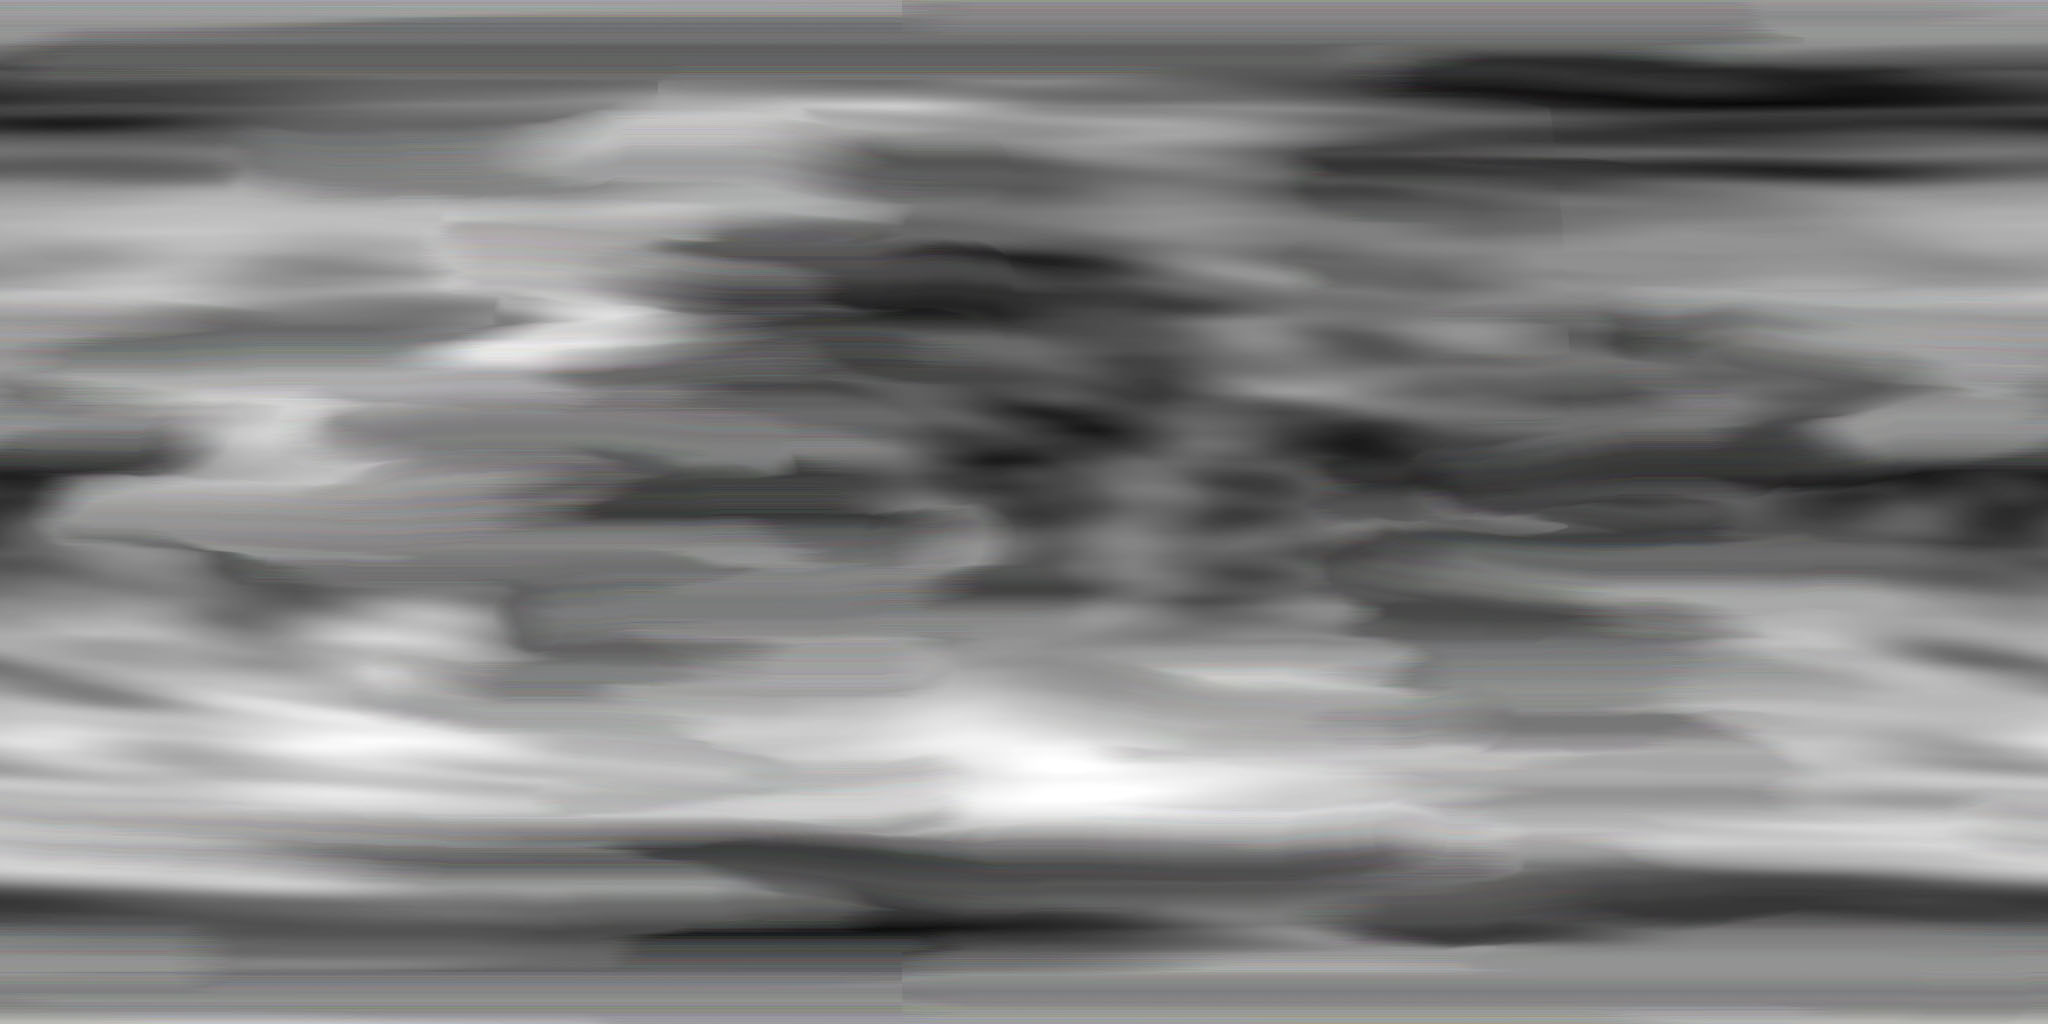
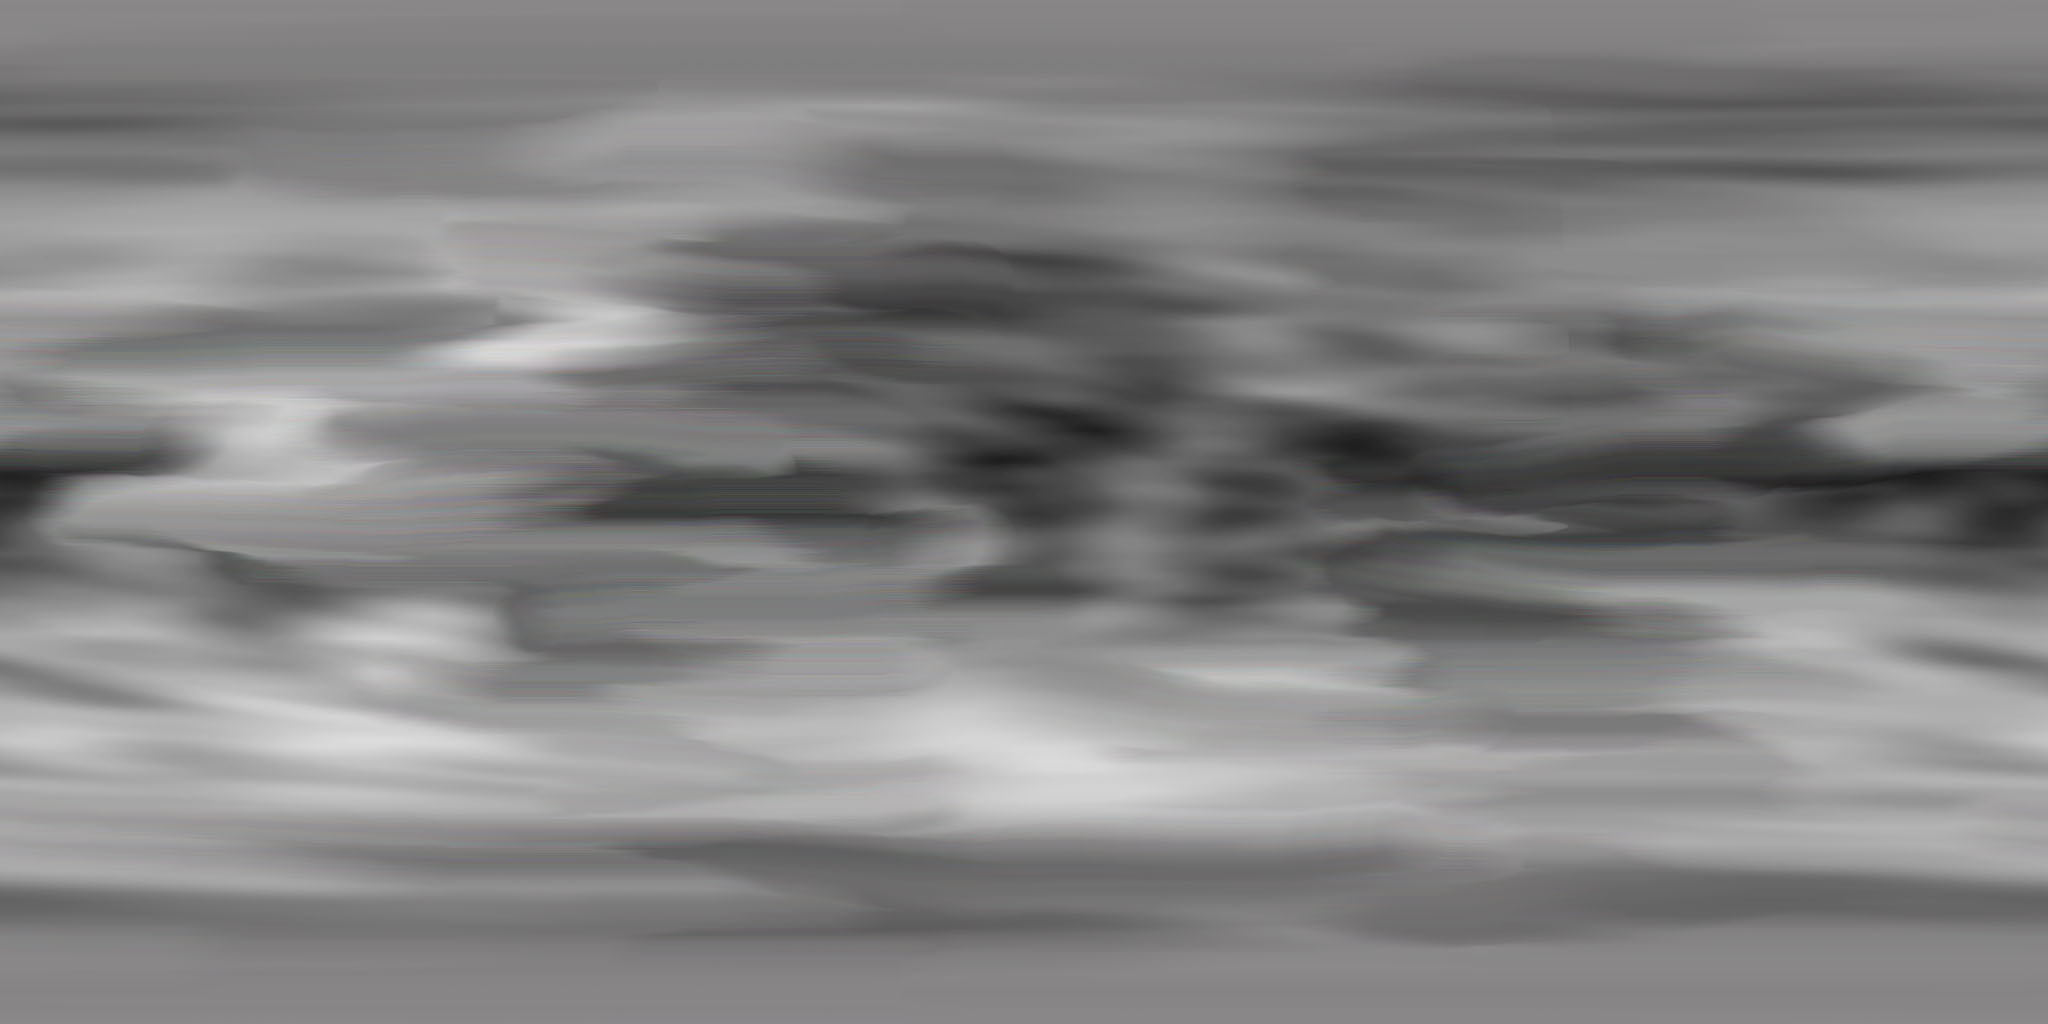
Trying to add clouds

diff --git a/Flipflyv2/index.html b/Flipflyv2/index.html
@@ -133,7 +133,7 @@
             scene.add( mesh );
 
             var geometry = new THREE.SphereBufferGeometry( 500, 64, 32 );
-            geometry.scale( - 0.4, 0.4, 0.4 );
+            geometry.scale( - 0.2, 0.2, 0.2 );
             var colorsForLayersLandscape = new THREE.TextureLoader().load( 'Nuages.jpg' );
             // var colorsForLayersLandscape = new THREE.TextureLoader().load( 'Test3Plans_matin.jpg' );
             colorsForLayersLandscape.magFilter = THREE.LinearFilter;
@@ -146,7 +146,7 @@
             var materialNuages = new THREE.MeshBasicMaterial({
               map: colorsForLayersLandscape,
               transparent: true,
-              side: THREE.BackSide,
+              side: THREE.FrontSide,
               alphaTest: 0.5,
               opacity: 0.1
             });
@@ -321,8 +321,9 @@
                 }
 
                 if (materialNuages != null) {
-                    materialNuages.opacity = Math.sin(t*0.05) *0.5+0.5;
+                    materialNuages.opacity = Math.sin(t*0.05) *0.4+0.4;
                     meshNuages.rotation.y += 0.05;
+                    meshNuages.position = camera.position;
                 }
                 t++;
                 renderer.render(scene, camera);
